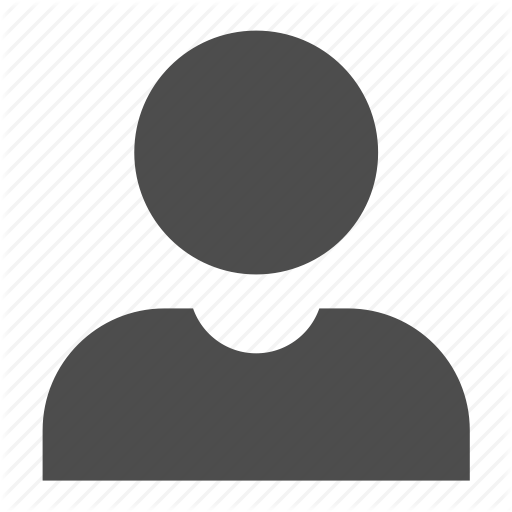
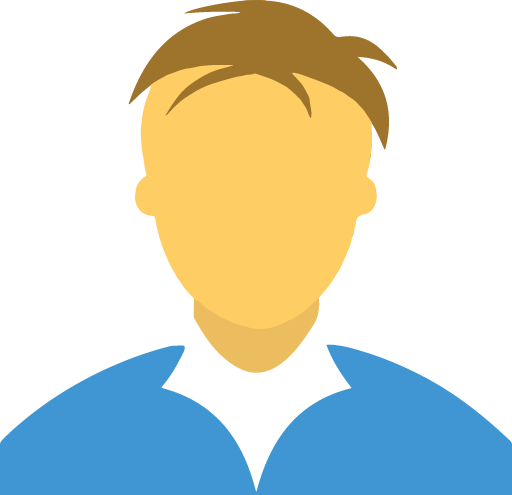
Feat: emplemented gallery item opacity when it's hidden

diff --git a/src/app/components/thumbnail/thumbnail.component.html b/src/app/components/thumbnail/thumbnail.component.html
@@ -9,14 +9,12 @@
              src="../../../assets/img/show-icon.svg" alt="">
       <img class="icon icon-hide" (click)="setVisibility()" [hidden]="item.visible"
              src="../../../assets/img/hide-icon.svg">
-      <!--<a href="javascript:void(0)" (click)="setVisibility()" [hidden]="!item.visible">show</a>-->
-      <!--<a href="javascript:void(0)" (click)="setVisibility()" [hidden]="item.visible">hide</a>-->
     </div>
-    <img *ngIf="item.mediaPath.indexOf('.png') > 0"
+    <img [ngClass]="{transparent: !item.visible}" *ngIf="item.mediaPath.search('.(jpe?g|gif|png)') > 0"
          [src]="item ? item.mediaPath :
        'https://amazingcarousel.com/wp-content/uploads/amazingcarousel/3/images/lightbox/golden-wheat-field-lightbox.jpg'"
          alt="">
-    <vg-player *ngIf="item.mediaPath.indexOf('.mp4') > 0" (onPlayerReady)="onPlayerReady($event)">
+    <vg-player [ngClass]="{transparent: !item.visible}" *ngIf="item.mediaPath.indexOf('.mp4') > 0" (onPlayerReady)="onPlayerReady($event)">
       <video loop="true" [vgMedia]="media" #media id="singleVideo" controls controlsList="nodownload">
         <source [src]="item.mediaPath" type="video/mp4">
       </video>

diff --git a/src/app/components/eventGroup/event-group.component.ts b/src/app/components/eventGroup/event-group.component.ts
@@ -1,4 +1,4 @@
-import { Component, Input, OnInit, OnChanges } from '@angular/core';
+import { Component, Input, Output, OnInit, OnChanges, EventEmitter } from '@angular/core';
 import { IActionState } from '../../client/client.interface';
 import { IEventGroup } from '../../event-groups/list/event-groups.interaface';
 import * as moment from 'moment';
@@ -30,6 +30,13 @@ export class EventGroupComponent implements OnChanges {
    * @type {any}
    */
   @Input() public modal: any;
+
+  /**
+   * On event group update
+   *
+   * @type {EventEmitter}
+   */
+  @Output() public update: EventEmitter<any> = new EventEmitter();
 
   /**
    * Is event group tab open?
@@ -150,6 +157,7 @@ export class EventGroupComponent implements OnChanges {
       .subscribe(() => {
           group.events = group.events.filter((e: IEvent) => !e.isChecked);
           this.toastrService.success('Events have been successfully deleted.');
+          this.update.emit();
         }
       );
   }

diff --git a/src/app/components/navigations/main-navigation/main-navigation.component.ts b/src/app/components/navigations/main-navigation/main-navigation.component.ts
@@ -14,6 +14,13 @@ import { RouteData } from '../../../shared/core/event-management/route-data.serv
 })
 
 export class MainNavigationComponent implements OnInit {
+  /**
+   * Default user icon
+   *
+   * @type {string}
+   */
+  public defaultUserIcon: string = '../../../assets/img/default-user-icon.png';
+
   public user: IUser;
 
   public options: IActionState[] = [
@@ -36,7 +43,9 @@ export class MainNavigationComponent implements OnInit {
     this.userService.getUser(PermissionService.userId.toString())
       .subscribe((user: IUser) => {
           this.user = user;
-          this.user.profileImagePath = `${this.user.profileImagePath}?_=${new Date().getTime()}`;
+          this.user.profileImagePath = this.user.profileImagePath ?
+                                `${this.user.profileImagePath}?_=${new Date().getTime()}` :
+                                    '../../../assets/img/default-user-icon.png';
         }
       );
   }

diff --git a/src/app/event-groups/list/event-groups.component.html b/src/app/event-groups/list/event-groups.component.html
@@ -3,17 +3,18 @@
     <div>
       <label>Sort by</label>
       <dropdown
-        [title]="'Upcoming'"
-        [options]="sortActions"
-        [size]="'big'"
-        (typeChanged)="onSortChanged($event)"
+          [title]="'Upcoming'"
+          [options]="sortActions"
+          [size]="'big'"
+          (typeChanged)="onSortChanged($event)"
       ></dropdown>
     </div>
   </div>
   <event-group
-    [modal]="aeModal"
-    [eventGroups]="eventGroups"
-    style="width: 700px"
+      (update)="getUnusedEvents()"
+      [modal]="aeModal"
+      [eventGroups]="eventGroups"
+      style="width: 700px"
   ></event-group>
 
   <events-to-cur-group-modal #aeModal (save)="onSave()" [events]="unusedEvents"></events-to-cur-group-modal>

diff --git a/src/app/shared/table/table.component.html b/src/app/shared/table/table.component.html
@@ -5,11 +5,6 @@
       <th></th>
       <th class="table-header" *ngFor="let col of cols">
         <div>
-          <!--<regular-input [title]="col.title" [col]="col"-->
-          <!--(input)="searchQuery[col.id].next(searchValue)"-->
-          <!--(Change)="searchValue=$event"-->
-          <!--(sortChange)="changeSort($event)"-->
-          <!--&gt;</regular-input>-->
           <div *ngIf="!col.searchable">{{col.title}}</div>
           <fox-input [title]="col.title"
                      (input)="searchQuery[col.id].next(searchValue)"

diff --git a/src/app/shared/table/pipe/firstName.pipe.ts b/src/app/shared/table/pipe/firstName.pipe.ts
@@ -27,7 +27,7 @@ export class FirstNamePipe implements PipeTransform {
   public transform(value: any) {
     const date = new Date();
     const logo = value.logo ? `${value.logo}?_=${date.getTime()}`
-      : 'https://cdn3.iconfinder.com/data/icons/rcons-user-action/32/boy-512.png';
+      : '../../../../assets/img/default-user-icon.png';
     const name = value.name ? value.name : value.firstName ? value.firstName : '-';
     return this.sanitizer.bypassSecurityTrustHtml(
       `<div class="first-name">

diff --git a/src/app/components/navigations/main-navigation/main-navigation.component.html b/src/app/components/navigations/main-navigation/main-navigation.component.html
@@ -16,7 +16,7 @@
     <search-bar (Change)="onSearch($event)"></search-bar>
     <div class="profile btn-group" dropdown placement="bottom">
       <div dropdownToggle class="btn btn-primary drop-button">
-        <img class="user-img" [src]="user && user.profileImagePath">
+        <img class="user-img" [hidden]="!user" [src]="user?.profileImagePath">
         <div>
           <div class="user-name">{{user && user.firstName}} {{user && user.lastName}}</div>
         </div>

diff --git a/src/app/profile/profile.component.html b/src/app/profile/profile.component.html
@@ -21,7 +21,7 @@
   <div class="form-element">
     <label>Profile Image</label>
     <div>
-      <img *ngIf="profileData?.profileImagePath || logo" src="{{ logo || profileData?.profileImagePath }}">
+      <img *ngIf="profileData?.profileImagePath || logo" [src]="logo || profileData?.profileImagePath">
       <a class="delete-icon" href="javascript:void(0)" *ngIf="profileData?.profileImagePath || logo"
          (click)="removeLogo()">x</a>
     </div>

diff --git a/src/app/profile/profile.component.ts b/src/app/profile/profile.component.ts
@@ -59,7 +59,9 @@ export class ProfileComponent implements OnInit {
       .getProfile()
       .subscribe((data: IProfile) => {
         const date = new Date();
-        data.profileImagePath = `${data.profileImagePath}?_=${date.getTime()}`;
+        if(data.profileImagePath) {
+          data.profileImagePath = `${data.profileImagePath}?_=${date.getTime()}`;
+        }
 
         this.profileData = data;
       });

diff --git a/src/app/components/modals/download-modal/download-modal.component.html b/src/app/components/modals/download-modal/download-modal.component.html
@@ -17,7 +17,7 @@
         </div>
         <div class="btn-actions">
           <fox-button
-              [disabled]="!mediaIds.length && downloadType === 4"
+              [disabled]="!mediaIds.length"
               [value]="'START DOWNLOAD'"
               [design]="'primary'"
               (click)="startDownload()"

diff --git a/src/app/components/modals/download-modal/download-modal.component.scss b/src/app/components/modals/download-modal/download-modal.component.scss
@@ -88,3 +88,15 @@
     }
   }
 }
+
+:host /deep/ switcher {
+  .check {
+    text-align: center;
+    line-height: 3;
+
+    label {
+      height: 46px;
+      width: 240px;
+    }
+  }
+}

diff --git a/src/app/components/thumbnail/thumbnail.component.scss b/src/app/components/thumbnail/thumbnail.component.scss
@@ -194,6 +194,10 @@ $imgHeight: 256.4px;
   }
 }
 
+.transparent {
+  opacity: 0.4;
+}
+
 device-info {
   position: absolute;
   z-index: 100;
